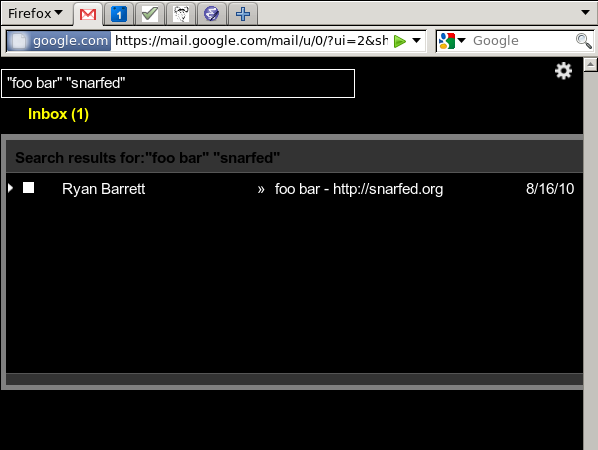
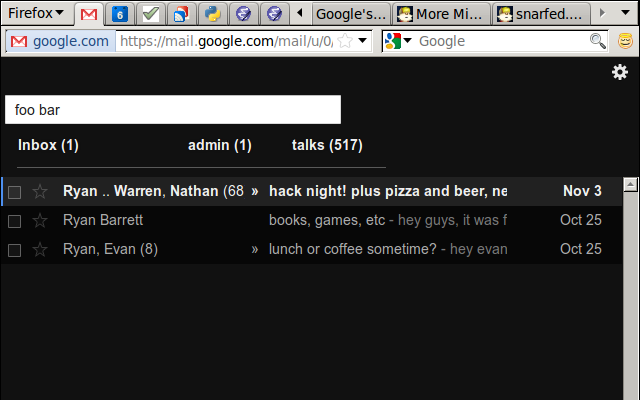
kennedy! release kennedized userscript

diff --git a/space/more_minimalist_gmail.css b/space/more_minimalist_gmail.css
@@ -8,6 +8,8 @@
  * http://mattconstantine.com/mg .
  *
  * Changelog:
+ * 0.10 11/6/2011
+ * - total overhaul for new gmail UI
  * 0.9 8/12/2011
  * - bug fix: don't hide notification bar
  * - show expand all button
@@ -16,7 +18,7 @@
  * 0.8 8/1/2011
  * Significant redesign to condense and improve usability, especially in smaller
  * or narrow browser windows.
- * - moved labels above conversation/thread view
+ * - moved lsabels above conversation/thread view
  * - condensed top search box area
  * - made widths all auto so that everything follows your browser's width
  * - bug fix: don't hide To and CC labels in compose area
@@ -66,60 +68,54 @@
  * Note the use of the > child selector. The * universal selector is
  * *descendant*, ie any depth, not just direct child.
  */
-div#gbz,                  /* header left side links (Mail, Calendar, etc. */
-ol.gbtc > li,             /* header (settings button is special-cased below) */
-div.nH.l2.ov,             /* footer */
+div#gbx3, div#gbx4,       /* sandbar gray background */
+div#gbz,                  /* sandbar left side links (Mail, Calendar, etc. */
+ol.gbtc > li,             /* sandbar right side (settings button is special-cased below) */
+div.Dg58Ge,               /* footer in most views*/
+div.l2.ov.nH.oy8Mbf,      /* footer in compose view */
+div#gbqfbw,               /* blue search button */
 td.GcwpPb-Pkt3ef.GcwpPb-uq0Mrf, /* Search Mail, Search the Web buttons */
-td.GcwpPb-Pkt3ef.GcwpPb-txTtjf, /* Show search options, Create a filter links */
-div.GcwpPb-MEmzyf.GcwpPb-bEO5kc, /* Import mail & contacts link */
-div.nH.GcwpPb-Z8OBDd div.nH.oy8Mbf.nn, /* GMail logo */
+div.WkI4x.J-JN-I,         /* drop-down arrow in search box */
+img.eNqR2d,               /* GMail logo (internal) */
+div.GcwpPb-VArq.Rgky9,    /* GMail logo (external) */
+div#gbpr,                 /* "Looking for more from Google?" bubble above logo */
+div.b8.UC,                /* useless vertical padding below search box */
 
 /* Left side */
-div.n6,                   /* # more labels drop-down */
+.s8A0qe.pp,               /* container for big Mail/Contacts/Tasks drop down */
+div.n6,                   /* "# more" link */
 div.nL.CZtFXe,            /* per-label right side color square drop-down menus */
-div.T0.pp,                /* Chat link */
-div.CX.pp,                /* Mail, Contacts links */
-div.T4.pp,                /* Tasks link */
-div.z0,                   /* Compose mail button */
-div.LrBjie > div.TK > div.TO:nth-child(2),  /* Sent Mail */
-div.LrBjie > div.TK > div.TO:nth-child(4),  /* All Mail */
-div.LrBjie > div.TK > div.TO:nth-child(5),  /* Trash */
-div.LrBjie > div.TK > div.TO > div.TN .nU,  /* Inbox, Sent Mail, Drafts */
+div.hF56D,                /* Compose button container */
+div.MX,                   /* New Contact button */
+div.LrBjie > div.TK > div,  /* Inbox, Sent Mail, Drafts */
+div.T8uMgc,               /* chat buddy list */
 
 /* List view */
-div.VP5otc-HT6HAf.J-J5-Ji, /* header and footer buttons (also applies to conv view) */
+div.D.E.VP5otc-pzeoBf, /* header and footer buttons (also applies to conv view) */
+/* div.VP5otc-HT6HAf.J-J5-Ji, */
 td.mgpAx,                 /* vertically shrink header/footer gray bar; external */
-div.nH.vpUyzb.Cr,         /* header: "1-10 of 100" (internal) */
-div.vpUyzb.J-J5-Ji,       /* header: "1-10 of 100" (external) */
-img.EqK8f,                /* per thread stars (external) */
-img.tk3N6e-KT-JX,         /* per thread stars (internal) */
+div.vpUyzb.J-J5-Ji,       /* header: "1-10 of 100" */
+img.tk3N6e-KT-JX,         /* per thread stars */
 
 /* Conversation view */
-div.iG,                   /* header and footer: "1-10 of 100, Older >" */
-div.f6,                   /* "xxx is not available to chat" */
-span.lHQn1d,              /* per message stars */
-div.J-Zh-I.J-J5-Ji.J-Zh-I-Js-Zj.GZ.L3, /* top right, per-message inline Reply button */
+div.VP5otc-HT6HAf.J-J5-Ji,             /* header buttons */
+div.GAvrIe,                            /* next/prev thread, settings buttons */
+div.f6,                                /* "xxx is not available to chat" */
 table.Bs.nH.iY td.Bu:nth-child(2),     /* right side pane */
 table.Bs.nH.iY td.Bu:nth-child(3),     /*   (ads, etc.) */
 div.hj > div.hk,                       /* expand all and new window buttons */
-div.VP5otc-tOAp0c,        /* Back to Inbox link */
+div.OH0apf,                            /* in-message ads */
 
 /* Reply, Reply all, Forward links below each message
  * can't hide these because the r, a, etc. key bindings depend on them. */
 /* div.gA.gt, */
 
 /* Compose area */
-span.jNNpPe,             /* formatting toolbar */
-td.fA,                   /* Check Spelling link */
-span.es.el,              /* Rich formatting link */
-span.b2,                 /* Insert span in Insert Invitation */
-span[id=":11x"],         /* Invitation link in Insert Invitation */
-div.eh,                  /* top buttons (Send, Save Now, Discard, ...) */
-
-/* bottom buttons (Send, Save Now, Discard)
- * can't hide these because tab-enter to send, tab-tab-tab enter to discard,
- * etc. depend on them. */
-/* div.CoUvaf, */
+td.fA,              /* Check Spelling link */
+span.es.el,         /* Rich formatting link */
+td.eF > span.b2,    /* Insert span in Insert Invitation */
+td.eF > span.el.ou, /* Invitation link in Insert Invitation */
+div.eh,             /* top buttons (Send, Save Now, Discard, ...) */
 
 noop_end_selector_list
 {
@@ -128,70 +124,54 @@ noop_end_selector_list
 
 /* A whitelist of exceptions that shouldn't be hidden.
  */
-div#guser > nobr > a[href="https://mail.google.com/mail/u/0/?ui=2&shva=1#settings"], /* Settings link */
 div.LrBjie > div.TK > div.TO > div.TN .nU.n1,  /* Inbox, Drafts *when they have messages* */
 ol.gbtc > li:last-child,      /* top-level header settings button */
 div.hj > div.hk:nth-child(3), /* expand all button */
+div.VP5otc-pzeoBf > div.eh,   /* top buttons in compose new message */
 noop_end_selector {
   display: inline !important;
 }
 
 /* Top level container and search box (first selector), labels and
- * message/conversation view containers (second selector). This removes the minimum
- * widths and makes them adjust to the * browser's width.
+ * message/conversation view containers (second selector). This removes the
+ * minimum widths and makes them adjust to the * browser's width.
  */
-body > div > div.nH,
-body > div > div.nH > div.nH > div.nH > div.no > div.nH.nn {
+div.nH.oy8Mbf.nn.VKRe2c,  /* labels container */
+body > div > div.nH,      /* outer container and search box */
+body > div > div.nH > div.nH > div.nH > div.no > div.nH.nn,  /* content container */
+div.nH.NUxIad.bsvFKf      /* contact content container */
+{
   width: auto !important;
-}
-
-/* Top google-wide header */
-div.nH.oy8Mbf.qp {
-  display: inline;
-  float: right;
-}
-
-/* Top header buttons */
-#gb, #gbx1, #gbx2, #gbx3, #gbx4, .gbvt, .gbgt, .gbtcb, .gbtb2, .gbmc, .gbts, #gbs {
-  background-color: transparent !important;
-  border: none !important;
+  height: auto !important;
 }
 
 /* Labels container */
-div.nH.oy8Mbf.nn {
-  float: none !important;
-  margin-top: 5px;
+div.uxFfPb.bgi53d {
+  display: inline !important;
 }
 
+/* show labels horizontally (inline) */
 div.n3 * {
   display: inline !important;
 }
 
-/* Individual labels */
-div.XQRo3.gu78Dc {
-  margin: 0 !important;
+/* vertical space below labels */
+div.n3 {
+  margin-bottom: 1em !important;
 }
 
-/* lines between each thread in list view */
+/* hide bottom borders of top header and search box header */
+div#gbx1, div#gbx2, div#gbx3, div#gbx4, div.nH.GcwpPb-Z8OBDd {
+  border: none !important;
+}
+
+/* hide lines between each thread in list view */
 td.xY {
   border-bottom: none !important;
 }
 
-/* "grip" image left of each conversation, for drag and drop */
+/* hide mouseover "grip" image left of each conversation */
 td.oZ-x3.xY {
   background-image: none !important;
 }
-
-/* hide highlighted background for Inbox/Drafts when they're currently
- * viewed. only do that for my own labels. */
-div.LrBjie > div.TK > div.TO.nZ {
-  background-color: transparent !important;
-}
-
-/* move to and labels pop-up menus in conversation and list views. */
-div.J-M.uEPqDe.AW {
-  left: 0px !important;
-  top: 0px !important;
-}
-
 }
